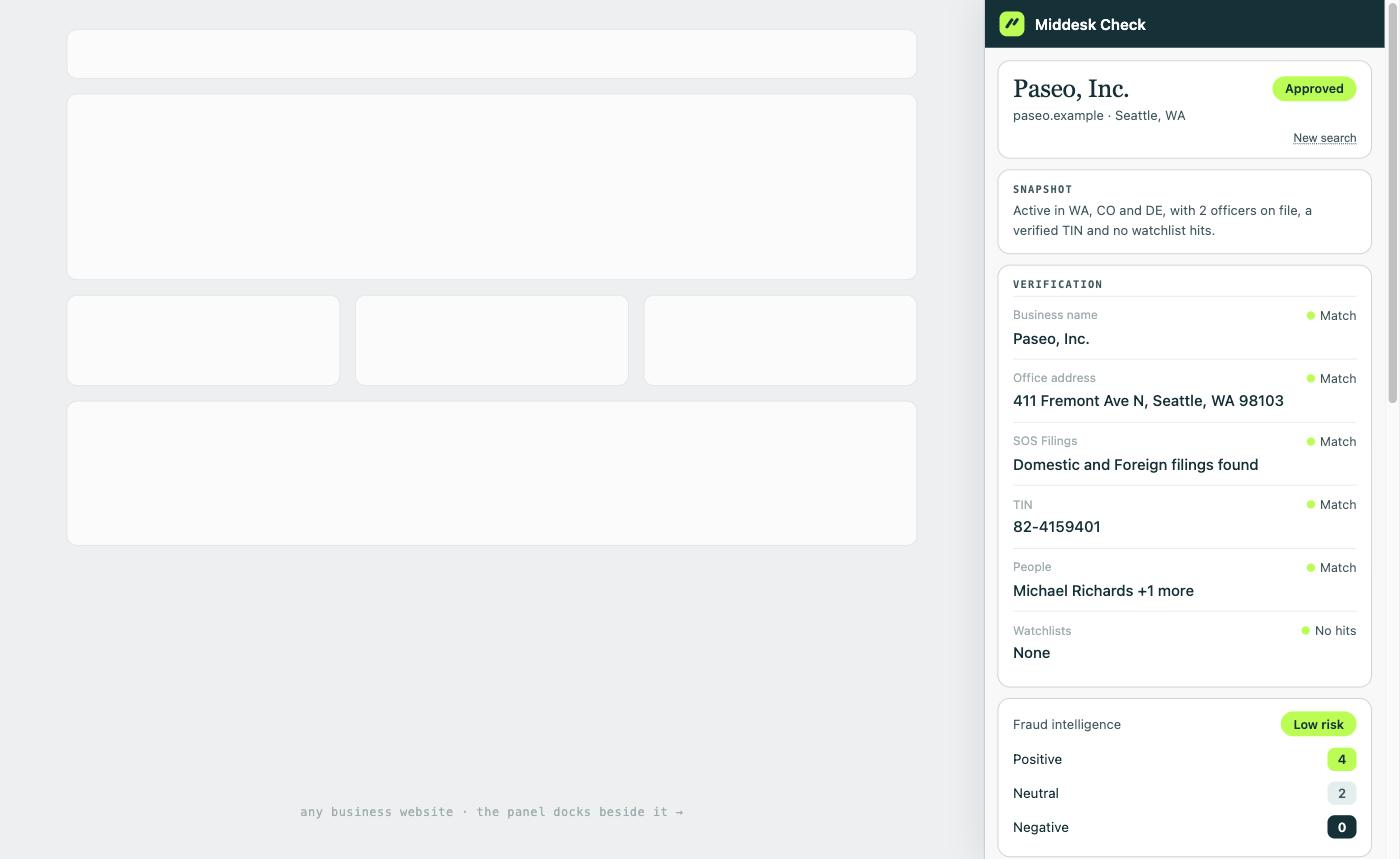
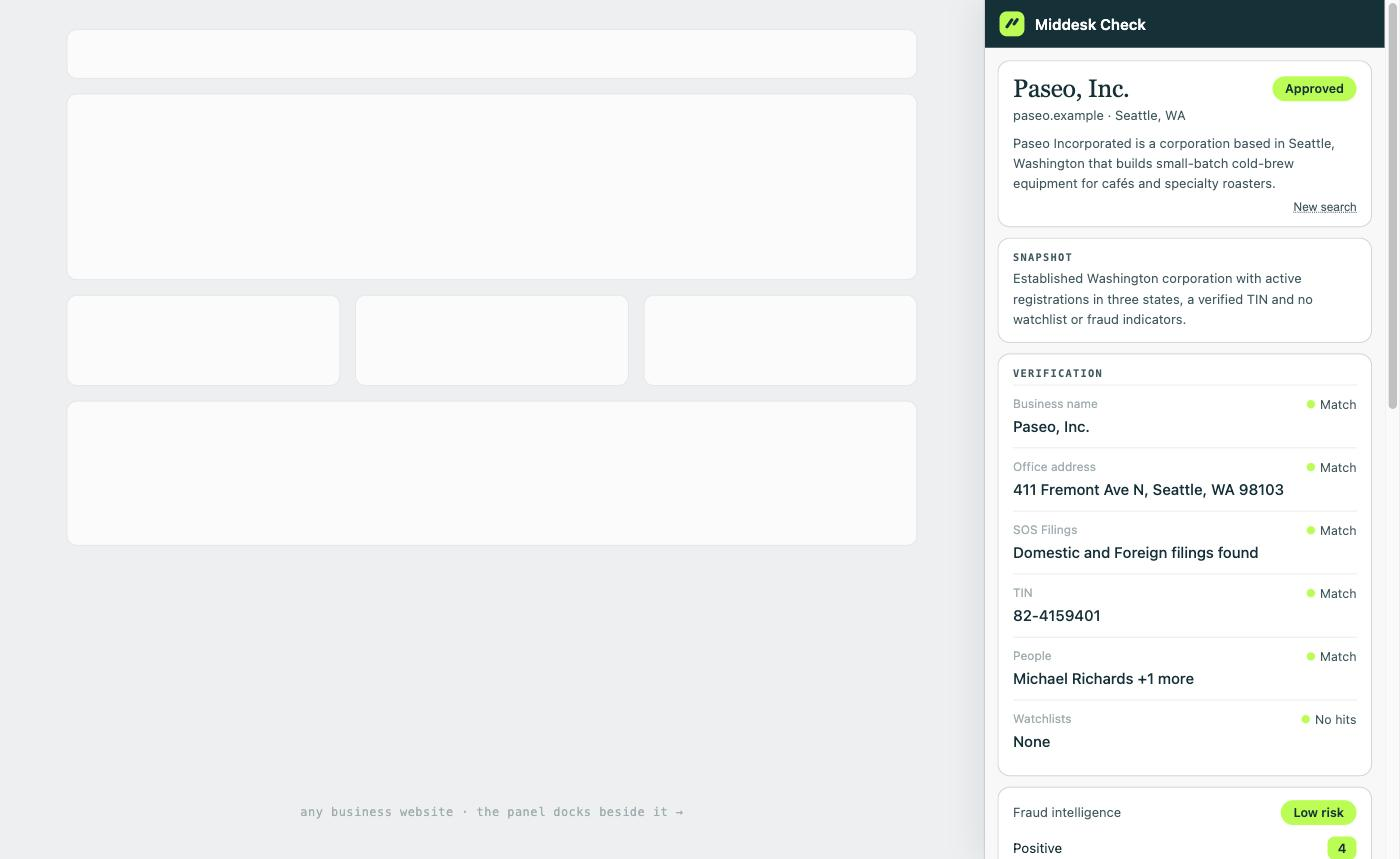
Description into header, real risk-assessment fields, live-capable Verify, CI
Field names QA'd against their reference docs today: tin.tin,
website.description, domain.creation_date all verbatim; risk assessment
corrected to their shape (level not band, plus title — their documented
'one-sentence analyst headline', which the Snapshot now renders,
falling back to our generator). Description moves into the entity
header per panel reading order. Verify now checks chrome.storage for a
middeskAccess config and calls the real API through the adapter when
present — fixture with demo latency otherwise — with an error state.
GitHub Actions CI runs lint + tests + build.

diff --git a/src/panel/main.ts b/src/panel/main.ts
@@ -2,7 +2,9 @@ import './panel.css';
 import {
   matchCardsFromMiddesk,
   profileFromMiddesk,
+  resolveMiddeskBusiness,
   type MatchCard,
+  type MiddeskAccess,
   type MiddeskBusiness,
 } from '../adapters/middesk';
 import { summarize } from '../core/summarize';
@@ -74,11 +76,11 @@ function matchStack(cards: MatchCard[]): HTMLElement {
 }
 
 function riskCard(risk: NonNullable<MiddeskBusiness['risk_assessment']>): HTMLElement {
-  const band = risk.band.charAt(0).toUpperCase() + risk.band.slice(1);
+  const level = risk.level.charAt(0).toUpperCase() + risk.level.slice(1);
   const card = h('section', 'card riskcard', [
     h('div', 'mrow-top', [
       h('span', 'lbl', ['Fraud intelligence']),
-      h('span', `pill-status pill-status--${risk.band}`, [`${band} risk`]),
+      h('span', `pill-status pill-status--${risk.level}`, [`${level} risk`]),
     ]),
   ]);
   const tally = h('div', 'tally');
@@ -108,27 +110,23 @@ function entityHeader(
   const card = h('section', 'card entity', [top]);
   const meta = [profile.domain, profile.location].filter(Boolean).join(' · ');
   if (meta) card.append(h('div', 'meta', [meta]));
+  if (profile.about) card.append(h('p', 'about', [profile.about]));
   const back = h('button', 'change', ['New search']);
   back.addEventListener('click', onNewSearch);
   card.append(h('div', 'entity-foot', [back]));
   return card;
 }
 
-function snapshotCard(rows: ProfileRow[]): HTMLElement {
+/**
+ * Prefers the risk assessment's `title` — their real one-sentence analyst
+ * headline field — and falls back to our deterministic generator when a
+ * response has no assessment.
+ */
+function snapshotCard(rows: ProfileRow[], headline?: string): HTMLElement {
   return h('section', 'card summary', [
     h('div', 'section-label', ['Snapshot']),
-    h('p', undefined, [summarize(rows)]),
+    h('p', undefined, [headline ?? summarize(rows)]),
   ]);
-}
-
-function aboutCard(profile: BusinessProfile): HTMLElement[] {
-  if (!profile.about) return [];
-  return [
-    h('section', 'card aboutcard', [
-      h('div', 'section-label', ['Business description']),
-      h('p', undefined, [profile.about]),
-    ]),
-  ];
 }
 
 /** Core verification is the panel's scope; everything deeper clicks out. */
@@ -221,14 +219,38 @@ function stage(): HTMLElement {
   return s;
 }
 
+/**
+ * In the extension, a Middesk key or proxy URL can be configured at runtime
+ * via chrome.storage (never bundled — see README security posture). Absent
+ * that — and always in the web harness — Verify renders the API-schema
+ * fixture with demo latency.
+ */
+async function loadAccess(): Promise<MiddeskAccess | null> {
+  if (typeof chrome === 'undefined' || !chrome.storage?.local) return null;
+  const stored = await chrome.storage.local.get('middeskAccess');
+  return (stored['middeskAccess'] as MiddeskAccess | undefined) ?? null;
+}
+
+async function resolveBusiness(): Promise<MiddeskBusiness> {
+  const fixture = middeskApi.business as unknown as MiddeskBusiness;
+  const access = await loadAccess();
+  if (access) {
+    // In the live product the query comes from page extraction (Phase 3);
+    // until then the fixture's identity doubles as the query.
+    return resolveMiddeskBusiness(
+      { name: fixture.name, domain: fixture.website?.url?.replace(/^https?:\/\//, '') },
+      access,
+    );
+  }
+  await new Promise((resolve) => setTimeout(resolve, 1600));
+  return fixture;
+}
+
 function boot(): void {
   const app = document.getElementById('app')!;
   const column = h('div', 'col');
   const main = h('main');
   column.append(topbar(), main);
-
-  const business = middeskApi.business as unknown as MiddeskBusiness;
-  const profile = profileFromMiddesk(business);
 
   // Staggered entrance keeps view changes from feeling like a hard swap.
   const enter = (): void => {
@@ -250,24 +272,37 @@ function boot(): void {
     scrollTop();
   };
 
-  const showReport = (): void => {
+  const showReport = (business: MiddeskBusiness): void => {
+    const profile = profileFromMiddesk(business);
     const statusPill =
       business.status === 'approved'
         ? 'Approved'
         : business.status.replace('_', ' ').replace(/^./, (ch) => ch.toUpperCase());
     main.replaceChildren(
       entityHeader(profile, statusPill, showIdle),
-      snapshotCard(profile.rows),
+      snapshotCard(profile.rows, business.risk_assessment?.title),
       matchStack(matchCardsFromMiddesk(business)),
       ...(business.risk_assessment ? [riskCard(business.risk_assessment)] : []),
       // TIN and watchlists live in the verification stack; the sections below
       // add the per-state and web detail.
       ...sectionCards(profile.rows.filter((r) => r.section !== 'federal')),
-      ...aboutCard(profile),
       ctaCard(),
     );
     enter();
     scrollTop();
+  };
+
+  const showError = (message: string): void => {
+    const retry = h('button', 'btn', ['Try again']);
+    retry.addEventListener('click', showIdle);
+    main.replaceChildren(
+      h('section', 'card', [
+        h('div', 'section-label', ['Verification did not complete']),
+        h('p', 'errmsg', [message]),
+      ]),
+      h('div', 'hero-actions', [retry]),
+    );
+    enter();
   };
 
   // Verification happens inside the first view: the hero becomes the toast
@@ -276,7 +311,9 @@ function boot(): void {
   const verifyFlow = (): void => {
     main.querySelector('.hero')?.replaceWith(toast());
     main.querySelectorAll('.card--ghost .bar').forEach((b) => b.classList.add('bar--live'));
-    setTimeout(showReport, 1600);
+    resolveBusiness()
+      .then(showReport)
+      .catch((err: unknown) => showError(err instanceof Error ? err.message : String(err)));
   };
 
   if (IS_EXTENSION) {

diff --git a/src/adapters/middesk.ts b/src/adapters/middesk.ts
@@ -9,12 +9,11 @@ import type {
 /**
  * The production seam.
  *
- * Middesk's API is sales-gated (no self-serve keys), so this adapter ships
- * dormant — but the ingestion path is implemented, not sketched: the demo's
- * "Middesk API sample" renders a fixture shaped exactly like their documented
- * Business response (docs.middesk.com/reference/business) through the same
- * mapper the live path uses. Wire a key and the free-source fleet is
- * replaced by one call.
+ * Middesk's API is sales-gated (no self-serve keys), so out of the box the
+ * Verify flow renders a fixture shaped exactly like their documented Business
+ * response (docs.middesk.com/reference/business) through the same mapper the
+ * live path uses. Configure `middeskAccess` in chrome.storage (proxy URL or
+ * sandbox key) and the same flow calls the real API instead.
  *
  * Types cover the subset of their documented schema this panel renders.
  */
@@ -63,10 +62,18 @@ export interface MiddeskBusiness {
     domain?: { creation_date?: string };
   } | null;
   addresses?: { full_address?: string; city?: string; state?: string }[];
-  /** Subset of their risk-assessment shape (0–100, banded low/moderate/high). */
+  /**
+   * Composite for the demo: their Risk Assessment is a separate resource
+   * (GET /risk_assessments/latest, linked via business.risk.latest_assessment_id).
+   * `score`, `level`, and `title` (their "one-sentence analyst headline") are
+   * verbatim documented fields; `indicators` condenses the dashboard's
+   * Positive/Neutral/Negative tally of the `dimensions` array. Production
+   * makes that second call instead of reading it off the Business.
+   */
   risk_assessment?: {
     score: number;
-    band: 'low' | 'moderate' | 'high';
+    level: 'low' | 'moderate' | 'high';
+    title?: string;
     indicators: { positive: number; neutral: number; negative: number };
   } | null;
 }
@@ -185,7 +192,12 @@ export function matchCardsFromMiddesk(b: MiddeskBusiness): MatchCard[] {
 
   const addr = b.addresses?.[0];
   if (addr?.full_address) {
-    cards.push({ label: 'Office address', value: addr.full_address, match: 'Match', status: 'success' });
+    cards.push({
+      label: 'Office address',
+      value: addr.full_address,
+      match: 'Match',
+      status: 'success',
+    });
   }
 
   if (b.registrations.length) {
@@ -217,7 +229,9 @@ export function matchCardsFromMiddesk(b: MiddeskBusiness): MatchCard[] {
   if (firstPerson) {
     cards.push({
       label: 'People',
-      value: morePeople.length ? `${firstPerson.name} +${morePeople.length} more` : firstPerson.name,
+      value: morePeople.length
+        ? `${firstPerson.name} +${morePeople.length} more`
+        : firstPerson.name,
       match: 'Match',
       status: 'success',
     });
@@ -262,8 +276,7 @@ const API_BASE = 'https://api.middesk.com/v1';
  *   panel go live without standing up the proxy first.
  */
 export type MiddeskAccess =
-  | { mode: 'proxy'; proxyUrl: string }
-  | { mode: 'direct-sandbox'; apiKey: string };
+  { mode: 'proxy'; proxyUrl: string } | { mode: 'direct-sandbox'; apiKey: string };
 
 /**
  * Direct path against their documented REST API (Bearer auth, per
@@ -299,6 +312,15 @@ export async function fetchMiddeskBusiness(
   return business;
 }
 
+export async function resolveMiddeskBusiness(
+  q: EntityQuery,
+  access: MiddeskAccess,
+): Promise<MiddeskBusiness> {
+  return access.mode === 'proxy'
+    ? fetchViaProxy(q, access.proxyUrl)
+    : fetchMiddeskBusiness(q, access.apiKey);
+}
+
 async function fetchViaProxy(q: EntityQuery, proxyUrl: string): Promise<MiddeskBusiness> {
   const res = await fetch(`${proxyUrl.replace(/\/$/, '')}/verify`, {
     method: 'POST',
@@ -320,11 +342,7 @@ export function createMiddeskAdapter(access?: MiddeskAccess): SourceAdapter {
             'The demo renders their response schema from fixtures in the meantime.',
         );
       }
-      const business =
-        access.mode === 'proxy'
-          ? await fetchViaProxy(q, access.proxyUrl)
-          : await fetchMiddeskBusiness(q, access.apiKey);
-      return rowsFromMiddesk(business);
+      return rowsFromMiddesk(await resolveMiddeskBusiness(q, access));
     },
   };
 }

diff --git a/src/core/summarize.ts b/src/core/summarize.ts
@@ -13,7 +13,9 @@ function listJoin(items: string[]): string {
  */
 export function summarize(rows: ProfileRow[]): string {
   const activeStates = rows
-    .filter((r) => r.section === 'registration' && r.status === 'success' && /active/i.test(r.value))
+    .filter(
+      (r) => r.section === 'registration' && r.status === 'success' && /active/i.test(r.value),
+    )
     .map((r) => r.label);
   const lead = activeStates.length
     ? `Active in ${listJoin(activeStates)}`
@@ -30,7 +32,8 @@ export function summarize(rows: ProfileRow[]): string {
   }
 
   const tin = rows.find((r) => r.label === 'TIN Match');
-  if (tin) clauses.push(tin.status === 'success' ? 'a verified TIN' : `TIN ${tin.value.toLowerCase()}`);
+  if (tin)
+    clauses.push(tin.status === 'success' ? 'a verified TIN' : `TIN ${tin.value.toLowerCase()}`);
 
   const watchlists = rows.find((r) => r.label === 'Watchlists');
   if (watchlists) {

diff --git a/src/panel/panel.css b/src/panel/panel.css
@@ -277,12 +277,24 @@ a:focus-visible {
   padding: 0;
 }
 
-/* ---------- snapshot & description ---------- */
-.summary p,
-.aboutcard p {
+/* ---------- snapshot ---------- */
+.summary p {
   margin: 0;
   font-size: 12.5px;
   line-height: 1.55;
+  color: var(--midnight-80);
+}
+
+.entity .about {
+  margin: 8px 0 0;
+  font-size: 12.5px;
+  line-height: 1.55;
+  color: var(--midnight-80);
+}
+
+.errmsg {
+  margin: 0;
+  font-size: 12.5px;
   color: var(--midnight-80);
 }
 

diff --git a/README.md b/README.md
@@ -48,6 +48,8 @@ Design decisions worth stating:
 - **Status vocabulary mirrors Middesk's review tasks** (`success`/`warning`/`failure`) so their API maps in without renames.
 - **Demo scope is one polished flow** — verify → report — pinned to core verification, with a click-out CTA for everything deeper (liens, connections, monitoring). The page-extraction and candidate-confirm flow from the GTM proposal returns with the live adapters in Phase 3 (its earlier implementation lives in git history).
 - **No LLM in the data path.** Parse → query → render. A row either cites a government source or shows a designed absence; the tool is hallucination-free by construction.
+- **Every rendered field maps to their documented schema** (verified against the reference pages): Business, Registration, TIN (`tin`, `verified`, `mismatch`), Watchlist, Website (`description`, `domain.creation_date`) are verbatim shapes. The one composite is `risk_assessment`: their Risk Assessment is a separate resource (`GET /risk_assessments/latest`, linked via `business.risk.latest_assessment_id`) whose real `score`/`level`/`title` fields the demo uses — the Snapshot headline *is* their `title` field ("one-sentence analyst headline") — with the dashboard's Positive/Neutral/Negative tally condensed as `indicators`. Production makes the second call.
+- **The live path is wired, not hypothetical.** `Verify` checks `chrome.storage` for a `middeskAccess` config (proxy URL or sandbox key, entered at runtime); if present, the panel calls the real API through the adapter and renders whatever comes back — same components, same mapper. Without it, the API-schema fixture renders with demo latency.
 - **Vanilla TypeScript, no framework.** A panel of list rows doesn't need React; reviewers can read the whole thing in one sitting.
 
 ## Security posture
